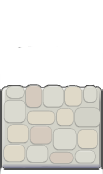
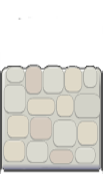
squared tiles - draft

diff --git a/client/src/Classes/Constants.h b/client/src/Classes/Constants.h
@@ -1,6 +1,6 @@
 
 #define TILE_WIDTH 101
-#define TILE_HEIGHT 81
+#define TILE_HEIGHT 101
 #define TEXTURE_IMAGES_PER_LINE 9
 #define TEXTURE_TILE_WIDTH 103
 #define TEXTURE_TILE_HEIGHT 173
